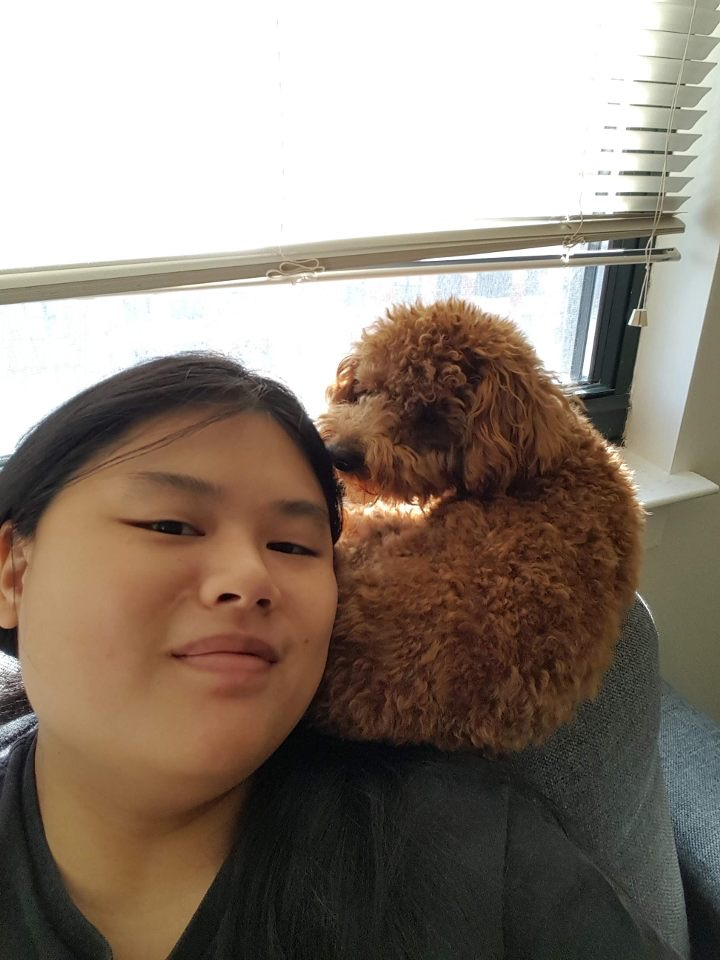
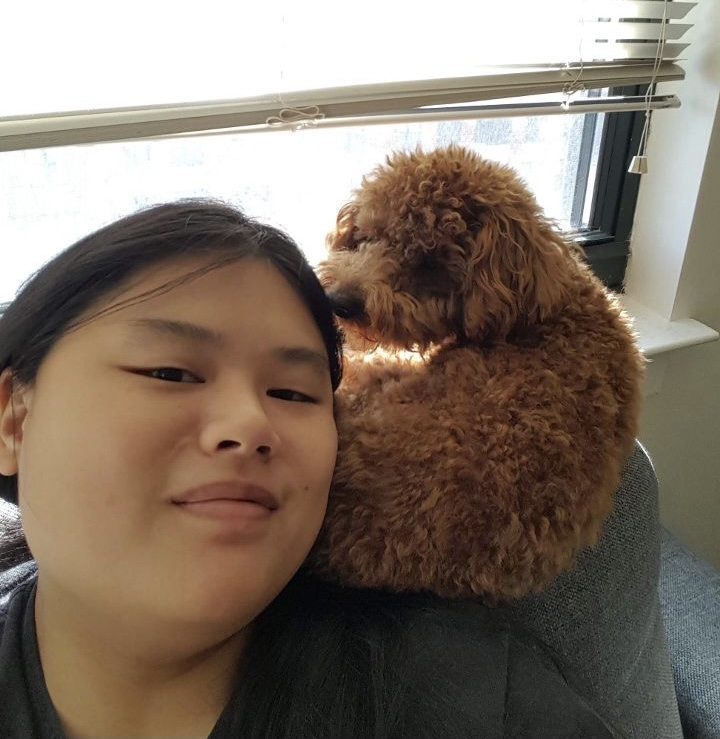
update

diff --git a/src/about.html b/src/about.html
@@ -78,7 +78,7 @@
     </div>
   </div>  <div class="column2">
     <div class="profileCard">
-      <img src="static/profile_img.png"style = "width:150px;height:auto;padding-top:10px">
+      <img src="static/bCantey.JPG"style = "width:150px;height:160px;padding-top:10px">
       <h1>Brandon Cantey</h1>
       <p class="title">Front End Developer</p>
     </div>
